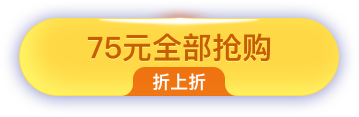
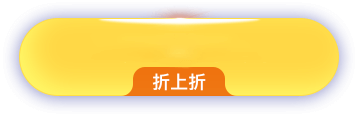
dailypackage fix

Changed region(s): [[0.2451, 0.2821, 0.766, 0.5385], [0.4903, 0.5641, 0.5209, 0.5897]]

diff --git a/src/views/dailypackage/App.vue b/src/views/dailypackage/App.vue
@@ -36,7 +36,7 @@
               </div>
               <!-- 礼包内容 -->
               <div class="award-wrap">
-                <div 
+                <div
                   class="sec1"
                   v-for="(item1,index1) in item.awardsList.slice().sort((a,b)=>(b.awardsType-a.awardsType))"
                   :key="index1"
@@ -56,12 +56,13 @@
               <div class="btn" @click="gotopay(item,true)" >{{ item.price }}元抢购>></div>
             </div>
             <!-- 全部购买 -->
-            <div 
+            <div
               v-else
               :key="index"
-              class="btn-all" 
+              class="btn-all"
               :class="{ gray: item.buyFlag == 0 }"
               @click="gotopay(item, item.buyFlag != 0)">
+              <span :class="{ gray: item.buyFlag == 0 }">{{item.price}}元全部抢购</span>
               <div class="tips">每日限1次</div>
             </div>
           </template>
@@ -77,7 +78,7 @@
               <div class="light">
                 <img src="./images/light.png" alt="">
               </div>
-              <img class="award-img" :src="item.awardsImg | filter" alt="">
+              <img class="award-img" :src="`${require(`./images/${item.awardsType}.png`)}`" alt="">
               <div class="award-name">{{ item.awardsName }}</div>
               <div class="exchange-num">
                 <img src="./images/lucky-icon.png" alt=""> x{{item.costCoin}}
@@ -90,26 +91,26 @@
         </div>
       </div>
       <!-- 公共弹框 -->
-      <common-pop 
-        :is-show-pop="isShowPop" 
-        :fail="fail" 
-        :surplus='surplus' 
+      <common-pop
+        :is-show-pop="isShowPop"
+        :fail="fail"
+        :surplus='surplus'
         :awardData="awardData"
-        @close-pop="isShowPop=false" 
-        @gototask="gototask" 
+        @close-pop="isShowPop=false"
+        @gototask="gototask"
         @exchange="exchange"
       />
       <!-- 公共弹框 -->
-      <common-package-pop 
-        :is-show-pop="isShowPackagePop" 
-        :fail="fail" 
+      <common-package-pop
+        :is-show-pop="isShowPackagePop"
+        :fail="fail"
         :awardData="awardPackageData"
         @close-pop="isShowPackagePop=false"
         @gototask="gototask"
         @exchange="exchange"
       />
       <!-- 规则 -->
-      <rule ref="rule" :info="myInfo"></rule>
+      <rule ref="rule" :info="myInfo" :packages="taskInfo"></rule>
       <!-- loading -->
       <loading v-show="isLoading"></loading>
     </section>
@@ -432,11 +433,13 @@ export default {
           .award-img {
             display: block;
             position: absolute;
-            left: -.02rem;
-            top: -.25rem;
+            left:0;
+            right: 0;
+            margin: auto;
+            top: .1rem;
             z-index: 2;
-            width: 2.2rem;
-            height: 2.2rem;
+            width: 3*.6rem;
+            height: 2.44*.6rem;
           }
           .award-name {
             margin-top: 1.38rem;
@@ -572,7 +575,7 @@ export default {
           font-weight:bold;
           font-size: .26rem;
         }
- 
+
       }
       .btn-all {
         position: relative;
@@ -584,6 +587,20 @@ export default {
         &.gray {
           background: url(./images/buy-all-disable.png) no-repeat center center;
           background-size: 100% 100%;
+        }
+        span{
+          font-size: .24rem;
+          color: #ef7613;
+          position: absolute;
+          left: 0;
+          right: 0;
+          margin: auto;
+          text-align: center;
+          top: .32rem;
+          font-weight: bold;
+          &.gray{
+            color: #5f4ec9;
+          }
         }
         .tips {
           position: absolute;

diff --git a/src/views/dailypackage/components/rule.vue b/src/views/dailypackage/components/rule.vue
@@ -10,13 +10,15 @@
           <div class="main">
             <p>①活动时间：{{info.startTime | formatTime('m-d')}} 至 {{info.endTime | formatTime('m-d')}}，共7天。</p>
             <p>②幸运币是限购礼包内的特有货币，用于兑换对应奖品； </p>
-            <p>③75元为全部礼包抢购价，每天限购1次，每天0点刷新购买机会； </p>
-            <p>④礼包共有6元、26元、46元3种，单个礼包购买不限次数； </p>
+            <template v-if="packages.length">
+              <p>③{{packages[packages.length-1].price}}元为全部礼包抢购价，每天限购1次，每天0点刷新购买机会； </p>
+              <p>④礼包共有{{packages.slice(0,3).map(item=>item.price+'元').join('、')}}3种，单个礼包购买不限次数； </p>
+            </template>
             <p>⑤购买礼包可获得对应金叶，并有概率获得超级幸运币； </p>
             <p>⑥幸运币累计一定数量可在兑换页中换取各类奖品，奖品兑换不限次数； </p>
             <p>⑦活动结束后，幸运币清零，且无法兑换奖品； </p>
             <p>⑧如有任何问题可联系在线客服。</p>
-            <div class="btn" @click="isShowPop = false"></div>     
+            <div class="btn" @click="isShowPop = false"></div>
           </div>
         </div>
       </div>
@@ -37,6 +39,10 @@ export default {
       type: Object,
       default: () => {}
     },
+    packages:{
+      type: Array,
+      default: () => []
+    }
   },
   filters: {
     formatTime (date, type) {
